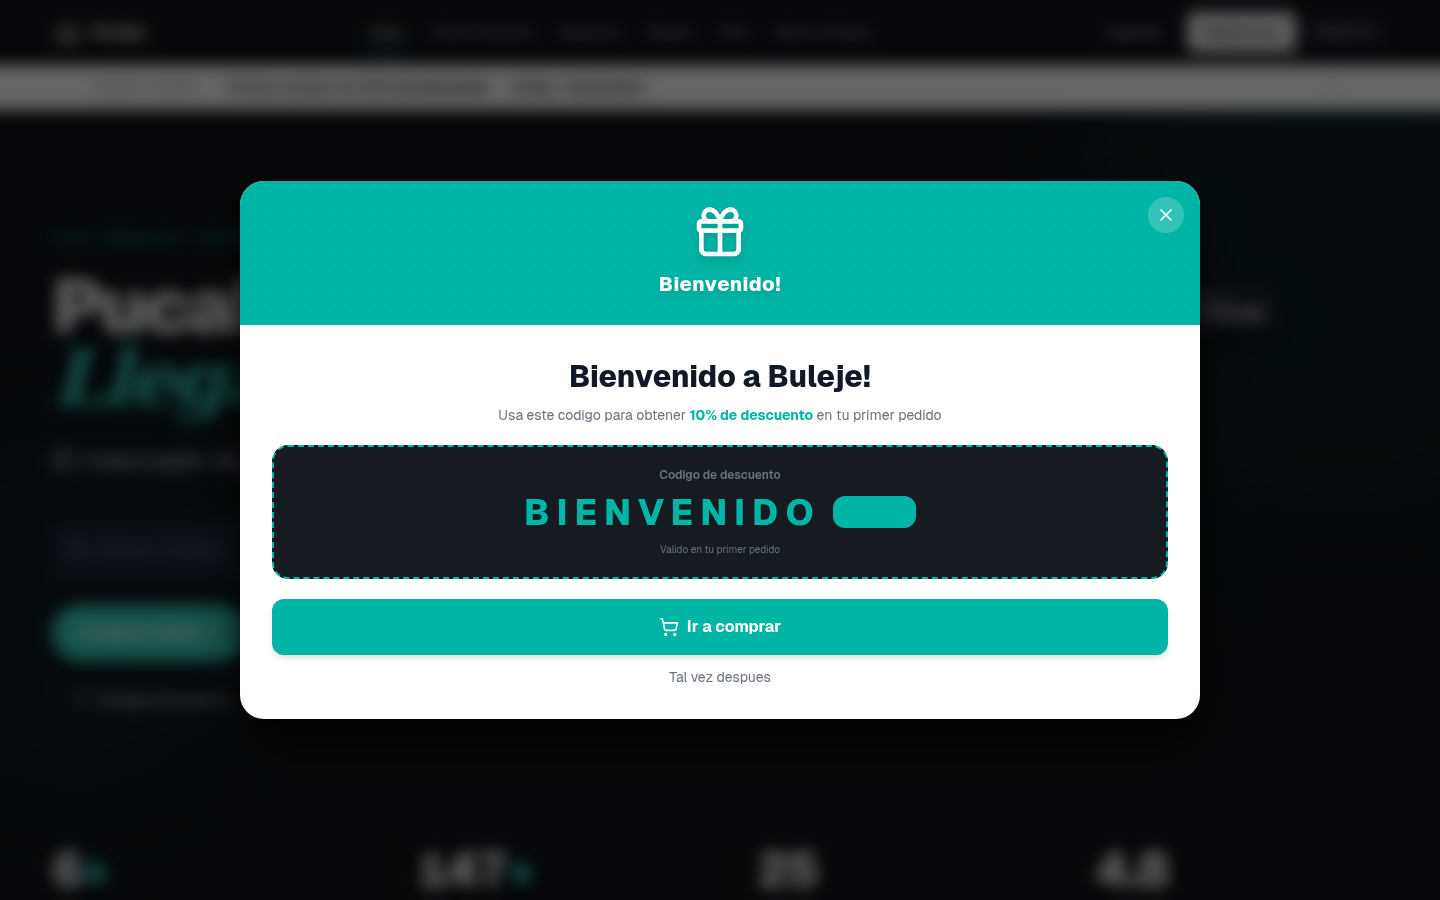
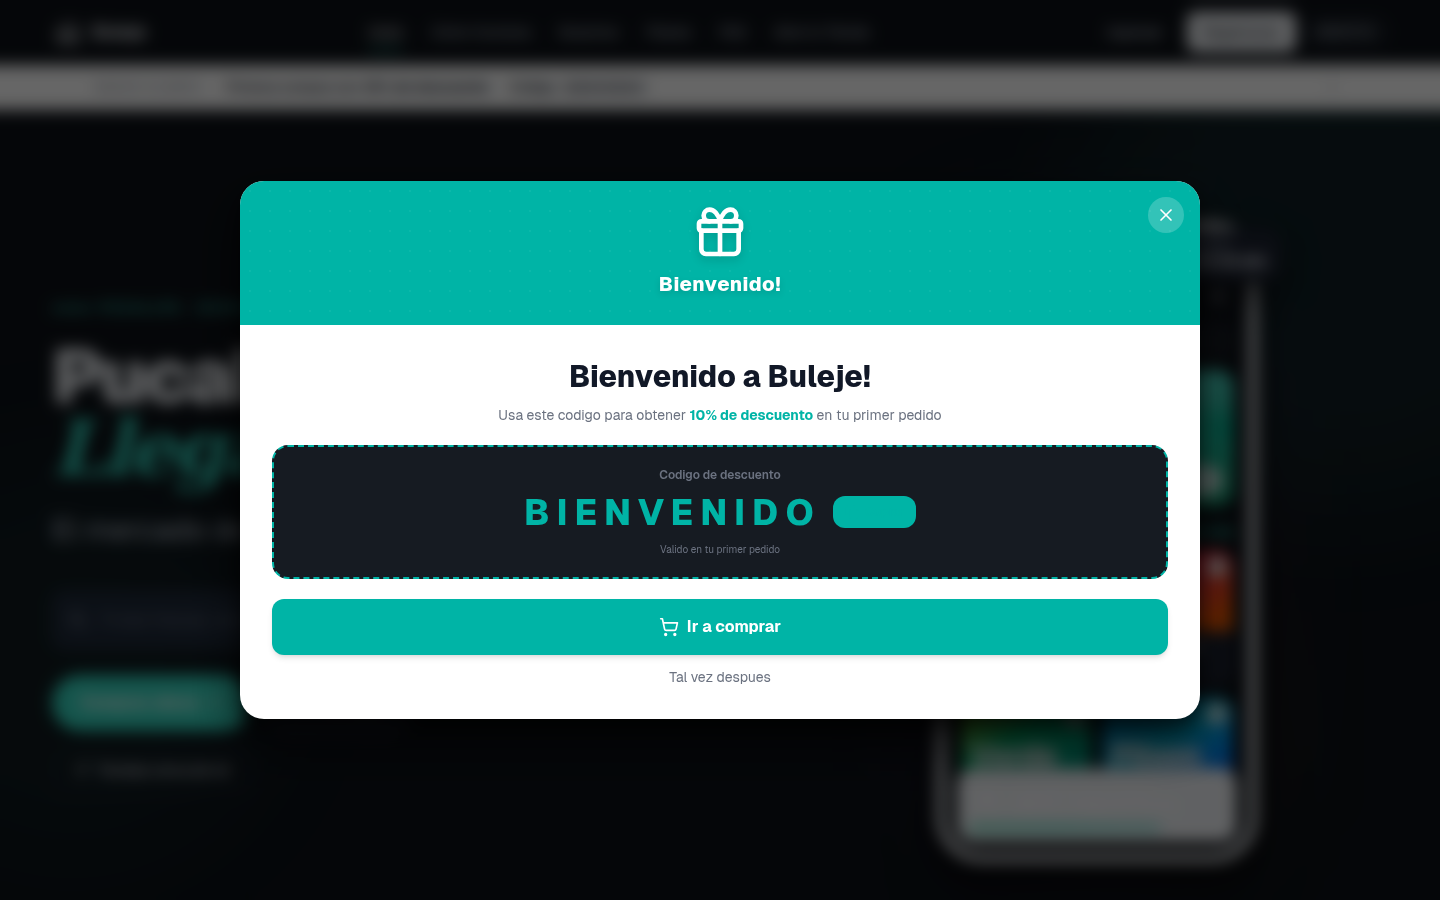
feat(landing): phone mockup editorial — gradientes vibrantes + tracker en vivo
Reemplaza ilustraciones SVG planas por product cards con gradientes
vibrantes (Inca amber, Pollo rojo, Verde lime, Pilsen sky), banner de
oferta del día con chip YAPE25, y tracker en el footer mostrando el
rider con barra de progreso. Phone ahora con bezel oscuro tipo iPhone
y dimensiones explícitas (320px desktop, 290px tablet, 260px mobile)
para que el contenido respire.

diff --git a/components/landing/LandingHero.tsx b/components/landing/LandingHero.tsx
@@ -18,13 +18,7 @@ import { useRef } from "react";
 import Link from "next/link";
 import { m, useScroll, useTransform, useReducedMotion } from "framer-motion";
 import NumberFlow from "@number-flow/react";
-import { ArrowUpRight, Bike, Star } from "@buleje/design-system/icons";
-import {
-  BebidasVarias,
-  LacteosRefresh,
-  VerduraFresca,
-  LimpiezaDomicilio,
-} from "@/components/ui-system/illustrations/categories";
+import { ArrowUpRight, Bike, Star, Plus, MapPin } from "@buleje/design-system/icons";
 import {
   AnimatedSearchBar,
   GeolocationPrompt,
@@ -195,83 +189,173 @@ export default function LandingHero({
   );
 }
 
-/* ── Phone preview con product cards flotantes ──────────────────────── */
+/* ── Product cards mock con gradientes vibrantes ────────────────────── */
+const PRODUCT_CARDS: Array<{
+  kicker: string;
+  name: string;
+  price: string;
+  was?: string;
+  bg: string;
+}> = [
+  {
+    kicker: "Inca",
+    name: "Inca Kola 1.5L",
+    price: "S/ 4.90",
+    was: "S/ 5.50",
+    bg: "bg-linear-to-br from-amber-400 via-yellow-500 to-amber-600",
+  },
+  {
+    kicker: "Pollo",
+    name: "Pollo a la brasa",
+    price: "S/ 28",
+    bg: "bg-linear-to-br from-rose-500 via-red-500 to-orange-500",
+  },
+  {
+    kicker: "Verde",
+    name: "Verduras del día",
+    price: "S/ 6.50",
+    bg: "bg-linear-to-br from-lime-500 via-emerald-500 to-teal-600",
+  },
+  {
+    kicker: "Pilsen",
+    name: "Pilsen 6-pack",
+    price: "S/ 24",
+    was: "S/ 30",
+    bg: "bg-linear-to-br from-sky-500 via-cyan-500 to-blue-600",
+  },
+];
+
+/* ── Phone preview editorial (sin illustrations, type-forward) ──────── */
 function PhoneMockup() {
   return (
-    <div aria-hidden className="relative aspect-[4/5] flex items-center justify-center select-none">
-      {/* Glow accent detrás del teléfono */}
-      <div className="absolute inset-8 rounded-[3rem] bg-linear-to-br from-[var(--accent)]/[0.18] via-transparent to-[var(--accent)]/[0.08] blur-2xl" />
+    <div aria-hidden className="relative h-[520px] sm:h-[580px] lg:h-[640px] flex items-center justify-center select-none">
+      {/* Glow accent multicapa detrás del teléfono */}
+      <div className="absolute inset-x-4 top-8 bottom-4 rounded-[3.5rem] bg-linear-to-br from-[var(--accent)]/[0.22] via-fuchsia-500/[0.08] to-amber-400/[0.12] blur-3xl" />
+      <div className="absolute inset-x-12 top-16 bottom-12 rounded-[3rem] bg-linear-to-tr from-[var(--accent)]/[0.18] to-transparent blur-2xl" />
 
-      {/* Frame del teléfono */}
-      <div className="relative h-[88%] aspect-[10/19] rounded-[2.5rem] bg-[var(--surface-raised)] border border-[var(--rule-base)] shadow-[var(--shadow-xl)] shadow-[var(--accent)]/10 overflow-hidden">
-        {/* Notch */}
-        <div className="absolute top-0 left-1/2 -translate-x-1/2 h-6 w-28 bg-[var(--text-primary)] rounded-b-2xl z-20" />
+      {/* Frame del teléfono — bezel oscuro, screen integrado */}
+      <div className="relative h-full w-[260px] sm:w-[290px] lg:w-[320px] rounded-[2.75rem] bg-[var(--text-primary)] p-2 shadow-[var(--shadow-xl)] shadow-[var(--accent)]/20">
+        <div className="relative h-full w-full rounded-[2.25rem] bg-[var(--surface-canvas)] overflow-hidden">
+          {/* Dynamic island (notch moderno) */}
+          <div className="absolute top-2.5 left-1/2 -translate-x-1/2 h-6 w-24 bg-[var(--text-primary)] rounded-full z-20" />
 
-        {/* Header app */}
-        <div className="px-4 pt-10 pb-3 bg-linear-to-b from-[var(--accent)]/10 to-transparent">
-          <div className="flex items-center justify-between">
-            <div>
-              <p className="text-xs font-bold uppercase tracking-wider text-[var(--text-tertiary)]">
-                Entregar en
-              </p>
-              <p className="text-sm font-extrabold text-[var(--text-primary)]">
-                Av. Centenario · 14
-              </p>
-            </div>
-            <span className="inline-flex h-8 w-8 items-center justify-center rounded-full bg-[var(--accent)]/15 text-[var(--accent)]">
-              <Bike className="h-4 w-4" strokeWidth={2.25} />
-            </span>
-          </div>
-
-          {/* Search mock */}
-          <div className="mt-3 h-9 rounded-xl bg-[var(--surface-canvas)] border border-[var(--rule-soft)] flex items-center px-3 text-xs text-[var(--text-tertiary)] font-medium">
-            Buscar yogurt, fideos, gaseosa…
-          </div>
-        </div>
-
-        {/* Categorías chips */}
-        <div className="px-3 mt-2 flex gap-1.5 overflow-hidden">
-          {["Bodegas", "Frutería", "Farmacia", "Licor"].map((c, i) => (
-            <span
-              key={c}
-              className={`inline-flex items-center h-6 px-2.5 rounded-full text-xs font-extrabold whitespace-nowrap ${
-                i === 0
-                  ? "bg-[var(--accent)] text-white"
-                  : "bg-[var(--surface-sunken)] text-[var(--text-secondary)] border border-[var(--rule-soft)]"
-              }`}
-            >
-              {c}
-            </span>
-          ))}
-        </div>
-
-        {/* Product cards mock — grid 2 cols con ilustraciones del DS */}
-        <div className="px-3 mt-3 grid grid-cols-2 gap-2">
-          {[
-            { name: "Inca Kola 1.5L", price: "S/ 5.50", Illu: BebidasVarias, tone: "bg-amber-100" },
-            { name: "Pan francés ×6", price: "S/ 1.80", Illu: LacteosRefresh, tone: "bg-orange-100" },
-            { name: "Plátano isla", price: "S/ 0.50", Illu: VerduraFresca, tone: "bg-lime-100" },
-            { name: "Detergente Bolívar", price: "S/ 12.00", Illu: LimpiezaDomicilio, tone: "bg-sky-100" },
-          ].map((p) => (
-            <div
-              key={p.name}
-              className="rounded-xl bg-[var(--surface-canvas)] border border-[var(--rule-soft)] p-2.5"
-            >
-              <div className={`aspect-square rounded-lg ${p.tone} flex items-center justify-center mb-1.5 overflow-hidden`}>
-                <p.Illu size={48} className="text-[var(--text-primary)]/80" />
+          {/* Header app */}
+          <div className="px-4 pt-12 pb-3">
+            <div className="flex items-center justify-between">
+              <div className="flex items-center gap-2">
+                <span className="inline-flex h-8 w-8 items-center justify-center rounded-xl bg-[var(--accent)] text-white">
+                  <MapPin className="h-3.5 w-3.5" strokeWidth={2.5} />
+                </span>
+                <div>
+                  <p className="text-xs font-extrabold text-[var(--text-primary)] leading-none">
+                    Pucallpa
+                  </p>
+                  <p className="text-xs text-[var(--text-tertiary)] leading-tight mt-0.5">
+                    Av. Centenario 14
+                  </p>
+                </div>
               </div>
-              <p className="text-xs font-bold text-[var(--text-primary)] leading-tight line-clamp-2 min-h-[2em]">
-                {p.name}
-              </p>
-              <p className="text-sm font-black text-[var(--accent)] mt-1">{p.price}</p>
+              <span className="inline-flex h-8 w-8 items-center justify-center rounded-full border-2 border-[var(--rule-soft)] text-[var(--text-secondary)]">
+                <Bike className="h-4 w-4" strokeWidth={2.25} />
+              </span>
             </div>
-          ))}
-        </div>
 
-        {/* Footer CTA mock */}
-        <div className="absolute bottom-3 left-3 right-3 h-11 rounded-xl bg-[var(--accent)] text-white flex items-center justify-between px-4 shadow-lg">
-          <span className="text-xs font-extrabold">Ver carrito · 4 items</span>
-          <span className="text-xs font-black">S/ 19.80</span>
+            {/* Search mock */}
+            <div className="mt-3 h-9 rounded-xl bg-[var(--surface-sunken)] border border-[var(--rule-soft)] flex items-center px-3 text-xs text-[var(--text-tertiary)] font-medium">
+              <span className="mr-2 text-[var(--text-tertiary)]">⌕</span>
+              ¿Qué necesitas?
+            </div>
+          </div>
+
+          {/* Hero offer banner — gradient brand */}
+          <div className="mx-4 rounded-2xl bg-linear-to-br from-[var(--accent)] via-[var(--accent)] to-emerald-600 p-4 text-white relative overflow-hidden">
+            <div className="absolute -right-6 -bottom-6 h-24 w-24 rounded-full bg-white/10" />
+            <div className="absolute -right-2 -top-2 h-12 w-12 rounded-full bg-white/10" />
+            <p className="text-xs font-black uppercase tracking-widest opacity-90">
+              Oferta del día
+            </p>
+            <p className="mt-1 text-xl font-black leading-tight">
+              -25% en
+              <br />
+              tu primer pedido
+            </p>
+            <p className="mt-2 text-xs font-bold opacity-90">
+              Entrega gratis · Hoy hasta 9pm
+            </p>
+            <span className="absolute right-3 bottom-3 inline-flex h-7 px-3 items-center rounded-full bg-white text-[var(--accent)] text-xs font-black">
+              YAPE25
+            </span>
+          </div>
+
+          {/* Section title */}
+          <div className="px-4 mt-4 flex items-center justify-between">
+            <p className="text-sm font-black text-[var(--text-primary)]">
+              Más vendidos
+            </p>
+            <p className="text-xs font-bold text-[var(--accent)]">Ver todo</p>
+          </div>
+
+          {/* Product cards — gradient cards typography-forward */}
+          <div className="px-4 mt-2 grid grid-cols-2 gap-2.5">
+            {PRODUCT_CARDS.map((p) => (
+              <div
+                key={p.name}
+                className="relative rounded-2xl border border-[var(--rule-soft)] bg-[var(--surface-raised)] overflow-hidden"
+              >
+                <div className={`relative h-20 ${p.bg} flex items-end p-2`}>
+                  <p className="text-2xl font-black tracking-[-0.03em] text-white drop-shadow-sm leading-none">
+                    {p.kicker}
+                  </p>
+                  <span className="absolute top-1.5 right-1.5 inline-flex h-5 w-5 items-center justify-center rounded-full bg-white text-[var(--accent)] shadow">
+                    <Plus className="h-3 w-3" strokeWidth={3} />
+                  </span>
+                </div>
+                <div className="px-2 py-2">
+                  <p className="text-xs font-bold text-[var(--text-primary)] leading-tight line-clamp-1">
+                    {p.name}
+                  </p>
+                  <div className="flex items-baseline gap-1.5 mt-1">
+                    <p className="text-sm font-black text-[var(--text-primary)]">
+                      {p.price}
+                    </p>
+                    {p.was && (
+                      <p className="text-xs font-bold text-[var(--text-tertiary)] line-through">
+                        {p.was}
+                      </p>
+                    )}
+                  </div>
+                </div>
+              </div>
+            ))}
+          </div>
+
+          {/* Bottom: order tracker mini-card (delivery rider en vivo) */}
+          <div className="absolute bottom-3 left-3 right-3 rounded-2xl bg-[var(--text-primary)] text-white p-3 shadow-[var(--shadow-lg)]">
+            <div className="flex items-center gap-2.5">
+              <div className="relative">
+                <span className="inline-flex h-9 w-9 items-center justify-center rounded-xl bg-white/15">
+                  <Bike className="h-4 w-4" strokeWidth={2.5} />
+                </span>
+                <span className="absolute -top-0.5 -right-0.5 inline-flex h-2.5 w-2.5">
+                  <span className="animate-ping absolute inline-flex h-full w-full rounded-full bg-[var(--brand-success)] opacity-75" />
+                  <span className="relative inline-flex h-2.5 w-2.5 rounded-full bg-[var(--brand-success)] border border-[var(--text-primary)]" />
+                </span>
+              </div>
+              <div className="flex-1 min-w-0">
+                <p className="text-xs font-bold opacity-80">
+                  Tu pedido va en camino
+                </p>
+                <p className="text-sm font-black leading-tight">
+                  Marco · Llega en 12 min
+                </p>
+              </div>
+              <span className="text-xs font-black">→</span>
+            </div>
+            {/* Progress bar */}
+            <div className="mt-2.5 h-1 rounded-full bg-white/15 overflow-hidden">
+              <div className="h-full w-3/4 rounded-full bg-linear-to-r from-emerald-400 to-[var(--accent)]" />
+            </div>
+          </div>
         </div>
       </div>
 
@@ -291,8 +375,8 @@ function PhoneMockup() {
         </div>
       </div>
 
-      {/* Chip flotante: rating (bottom-left) */}
-      <div className="absolute bottom-4 -left-2 sm:left-0 lg:-left-6 flex items-center gap-2.5 rounded-2xl bg-[var(--surface-raised)] border border-[var(--rule-base)] px-3.5 py-2.5 shadow-[var(--shadow-lg)]">
+      {/* Chip flotante: rating (mid-left, no tapa tracker) */}
+      <div className="absolute top-1/2 -translate-y-1/2 -left-3 sm:-left-4 lg:-left-8 flex items-center gap-2.5 rounded-2xl bg-[var(--surface-raised)] border border-[var(--rule-base)] px-3.5 py-2.5 shadow-[var(--shadow-lg)]">
         <span className="inline-flex h-9 w-9 items-center justify-center rounded-xl bg-[var(--accent)]/15 text-[var(--accent)]">
           <Star className="h-4 w-4 fill-current" strokeWidth={1.5} />
         </span>
